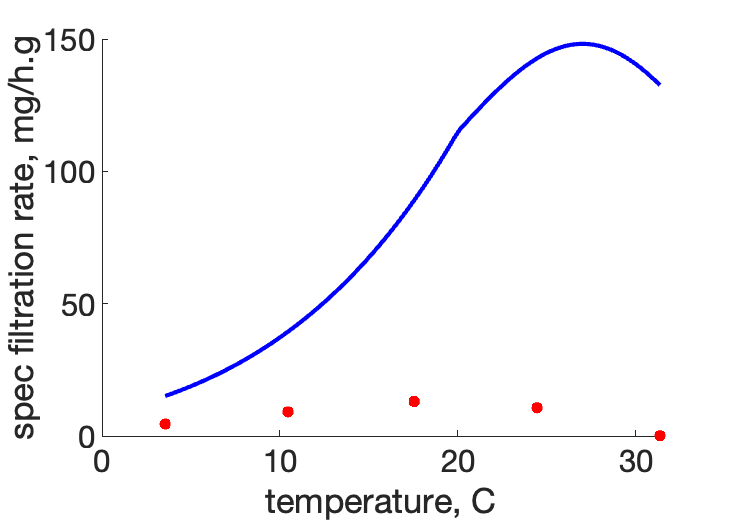
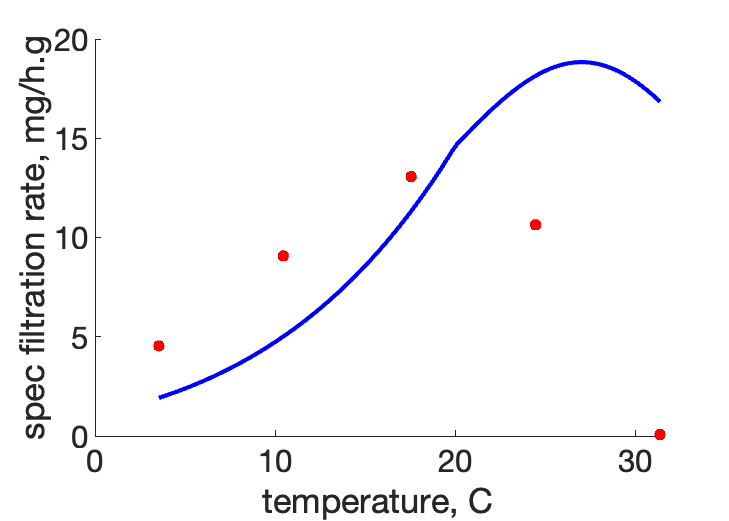
updated tspan

diff --git a/Dreissena_bugensis/Dreissena_bugensis_res.html b/Dreissena_bugensis/Dreissena_bugensis_res.html
@@ -1,0 +1,119 @@
+<!DOCTYPE html>
+<HTML>
+<HEAD>
+  <TITLE>Dreissena_bugensis</TITLE>
+  <style>
+    div.prd {
+      width: 50%;
+      float: left;
+    }
+
+    div.par {
+      width: 50%;
+      float: right;
+    }
+
+    p.clear {
+      clear: both;
+    }
+
+    .head {
+      background-color: #FFE7C6
+    }
+
+    .psd {
+      color: blue
+    }
+
+    #prd {
+      border-style: solid hidden solid hidden;
+    }
+
+    #par {
+      border-style: solid hidden solid hidden;
+    }
+
+    tr:nth-child(even){background-color: #f2f2f2}
+  </style>
+</HEAD>
+
+<BODY>
+
+  <div class="prd">
+  <h1>Dreissena bugensis</h1>
+  </div>
+
+  <div class="par">
+  <h4>COMPLETE = 2.0; MRE =    2.287; SMAE =    0.738; SMSE =    0.613 </h4>
+  </div>
+
+  <p class="clear"></p>
+
+  <div class="prd">
+  <h2>Data & predictions</h2>
+  <TABLE id="prd">
+    <TR  class="head"><TH>data</TH> <TH>prd</TH> <TH>RE</TH>  <TH>symbol</TH> <TH>units</TH> <TH>description</TH> </TR>
+    <TR><TD>  3</TD> <TD>3.163</TD> <TD>0.05445</TD> <TD>ab</TD> <TD>d</TD> <TD>age at birth</TD></TR>
+    <TR><TD> 15</TD> <TD>1.863</TD> <TD>0.8758</TD> <TD>tj</TD> <TD>d</TD> <TD>time since birth at end acceleration</TD></TR>
+    <TR><TD>180</TD> <TD>164.9</TD> <TD>0.08369</TD> <TD>tp</TD> <TD>d</TD> <TD>time since birth at puberty</TD></TR>
+    <TR><TD>1095</TD> <TD>1.523e+04</TD> <TD>12.91</TD> <TD>am</TD> <TD>d</TD> <TD>life span</TD></TR>
+    <TR><TD>0.01</TD> <TD>0.018</TD> <TD>0.7997</TD> <TD>Lb</TD> <TD>cm</TD> <TD>length at birth</TD></TR>
+    <TR><TD>0.03</TD> <TD>0.02805</TD> <TD>0.06513</TD> <TD>Lj</TD> <TD>cm</TD> <TD>length at end acceleration</TD></TR>
+    <TR><TD>0.7</TD> <TD>1.004</TD> <TD>0.4344</TD> <TD>Lp</TD> <TD>cm</TD> <TD>length at puberty</TD></TR>
+    <TR><TD>4.5</TD> <TD>4.916</TD> <TD>0.09253</TD> <TD>Li</TD> <TD>cm</TD> <TD>ultimate length</TD></TR>
+    <TR><TD>1.98e-08</TD> <TD>4.023e-08</TD> <TD>1.032</TD> <TD>Wdb</TD> <TD>g</TD> <TD>dry weight at birth</TD></TR>
+    <TR><TD>1.47e-07</TD> <TD>1.522e-07</TD> <TD>0.03559</TD> <TD>Wdj</TD> <TD>g</TD> <TD>dry weight at end acceleration</TD></TR>
+    <TR><TD>0.00063</TD> <TD>0.006986</TD> <TD>10.09</TD> <TD>Wdp</TD> <TD>g</TD> <TD>dry weight at puberty</TD></TR>
+    <TR><TD>0.168</TD> <TD>0.82</TD> <TD>3.881</TD> <TD>Wdi</TD> <TD>g</TD> <TD>ultimate dry weight</TD></TR>
+    <TR><TD>2740</TD> <TD>577.6</TD> <TD>0.7892</TD> <TD>Ri</TD> <TD>#/d</TD> <TD>ultimate reproduction rate</TD></TR>
+    <TR><TD colspan="2">see figure</TD> <TD>2.036</TD> <TD>tL1</TD> <TD colspan="2">time <font color="blue"><i>vs.</i></font> shell length</TD>
+    <TR><TD colspan="2">see figure</TD> <TD>1.465</TD> <TD>tL2</TD> <TD colspan="2">time <font color="blue"><i>vs.</i></font> shell length</TD>
+    <TR><TD colspan="2">see figure</TD> <TD>0.8742</TD> <TD>TF1</TD> <TD colspan="2">temperature <font color="blue"><i>vs.</i></font> spec filtration rate</TD>
+    <TR class="psd"><TD>0.02</TD> <TD>0.0161</TD> <TD>0.1951</TD> <TD>psd.v</TD> <TD>cm/d</TD> <TD>energy conductance</TD></TR>
+    <TR class="psd"><TD>0.8</TD> <TD>0.9927</TD> <TD>0.2409</TD> <TD>psd.kap</TD> <TD>-</TD> <TD>allocation fraction to soma</TD></TR>
+    <TR class="psd"><TD>0.95</TD> <TD>0.95</TD> <TD>  0</TD> <TD>psd.kap_R</TD> <TD>-</TD> <TD>reproduction efficiency</TD></TR>
+    <TR class="psd"><TD> 18</TD> <TD> 96</TD> <TD>4.333</TD> <TD>psd.p_M</TD> <TD>J/d.cm^3</TD> <TD>vol-spec som maint</TD></TR>
+    <TR class="psd"><TD>0.002</TD> <TD>0.002</TD> <TD>  0</TD> <TD>psd.k_J</TD> <TD>1/d</TD> <TD>maturity maint rate coefficient</TD></TR>
+    <TR class="psd"><TD>0.8</TD> <TD>0.8015</TD> <TD>0.001917</TD> <TD>psd.kap_G</TD> <TD>-</TD> <TD>growth efficiency</TD></TR>
+  </TABLE>
+  </div>
+
+  <div class="par">
+  <h2>abj parameters at 20.0&deg;C</h2>
+  <TABLE id="par">
+    <TR class="head"><TH>symbol</TH> <TH>units</TH> <TH>value</TH>  <TH>free</TH> <TH>description</TH> </TR>
+    <TR><TD>T_ref</TD> <TD>K</TD> <TD>293.1</TD> <TD>0</TD> <TD>Reference temperature</TD></TR>
+    <TR><TD>T_A</TD> <TD>K</TD> <TD>8000</TD> <TD>0</TD> <TD>T_A</TD></TR>
+    <TR><TD>z</TD> <TD>-</TD> <TD>0.8787</TD> <TD>1</TD> <TD>zoom factor</TD></TR>
+    <TR><TD>F_m</TD> <TD>l/d.cm^2</TD> <TD>48.23</TD> <TD>1</TD> <TD>{F_m}, max spec searching rate</TD></TR>
+    <TR><TD>kap_X</TD> <TD>-</TD> <TD>0.1</TD> <TD>0</TD> <TD>digestion efficiency of food to reserve</TD></TR>
+    <TR><TD>kap_P</TD> <TD>-</TD> <TD>0.5</TD> <TD>0</TD> <TD>faecation efficiency of food to faeces</TD></TR>
+    <TR><TD>v</TD> <TD>cm/d</TD> <TD>0.0161</TD> <TD>1</TD> <TD>energy conductance</TD></TR>
+    <TR><TD>kap</TD> <TD>-</TD> <TD>0.9927</TD> <TD>1</TD> <TD>allocation fraction to soma</TD></TR>
+    <TR><TD>kap_R</TD> <TD>-</TD> <TD>0.95</TD> <TD>0</TD> <TD>reproduction efficiency</TD></TR>
+    <TR><TD>p_M</TD> <TD>J/d.cm^3</TD> <TD> 96</TD> <TD>1</TD> <TD>[p_M], vol-spec somatic maint</TD></TR>
+    <TR><TD>p_T</TD> <TD>J/d.cm^2</TD> <TD>  0</TD> <TD>0</TD> <TD>{p_T}, surf-spec somatic maint</TD></TR>
+    <TR><TD>k_J</TD> <TD>1/d</TD> <TD>0.002</TD> <TD>0</TD> <TD>maturity maint rate coefficient</TD></TR>
+    <TR><TD>E_G</TD> <TD>J/cm^3</TD> <TD>2349</TD> <TD>1</TD> <TD>[E_G], spec cost for structure</TD></TR>
+    <TR><TD>E_Hb</TD> <TD>J</TD> <TD>2.203e-06</TD> <TD>1</TD> <TD>maturity at birth</TD></TR>
+    <TR><TD>E_Hj</TD> <TD>J</TD> <TD>8.376e-06</TD> <TD>1</TD> <TD>maturity at metamorphosis</TD></TR>
+    <TR><TD>E_Hp</TD> <TD>J</TD> <TD>0.5868</TD> <TD>1</TD> <TD>maturity at puberty</TD></TR>
+    <TR><TD>h_a</TD> <TD>1/d^2</TD> <TD>1.937e-09</TD> <TD>1</TD> <TD>Weibull aging acceleration</TD></TR>
+    <TR><TD>s_G</TD> <TD>-</TD> <TD>0.0001</TD> <TD>0</TD> <TD>Gompertz stress coefficient</TD></TR>
+    <TR><TD>T_L</TD> <TD>K</TD> <TD>273.1</TD> <TD>1</TD> <TD>T_L</TD></TR>
+    <TR><TD>T_AL</TD> <TD>K</TD> <TD>1e+04</TD> <TD>1</TD> <TD>T_AL</TD></TR>
+    <TR><TD>T_H</TD> <TD>K</TD> <TD>302</TD> <TD>0</TD> <TD>T_H</TD></TR>
+    <TR><TD>T_AH</TD> <TD>K</TD> <TD>2e+04</TD> <TD>1</TD> <TD>T_AH</TD></TR>
+    <TR><TD>del_M</TD> <TD>-</TD> <TD>0.2785</TD> <TD>1</TD> <TD>shape coefficient</TD></TR>
+    <TR><TD>f</TD> <TD>-</TD> <TD>  1</TD> <TD>0</TD> <TD>scaled functional response for 0-var data</TD></TR>
+    <TR><TD>t_0</TD> <TD>d</TD> <TD>  0</TD> <TD>0</TD> <TD>time at start of development</TD></TR>
+    <TR><TD>L_tL_high</TD> <TD>cm</TD> <TD>1.044</TD> <TD>0</TD> <TD>size at the start of the tL experiment</TD></TR>
+    <TR><TD>f_tL_high</TD> <TD>-</TD> <TD>0.4</TD> <TD>0</TD> <TD>scaled functional response for high food condition</TD></TR>
+    <TR><TD>L_tL_low</TD> <TD>cm</TD> <TD>1.051</TD> <TD>0</TD> <TD>size at the start of the tL experiment</TD></TR>
+    <TR><TD>f_tL_low</TD> <TD>-</TD> <TD>0.2</TD> <TD>0</TD> <TD>scaled functional response for tL low food condition</TD></TR>
+    <TR><TD>f_tF</TD> <TD>-</TD> <TD>0.5</TD> <TD>0</TD> <TD>scaled functional response for temp-filtrationRate data</TD></TR>
+  </TABLE>
+  </div>
+
+</BODY>
+</HTML>

diff --git a/Dreissena_bugensis/predict_Dreissena_bugensis.m b/Dreissena_bugensis/predict_Dreissena_bugensis.m
@@ -109,24 +109,26 @@ function [prdData, info] = predict_Dreissena_bugensis(par, data, auxData)
    
     % TC_TF2 = tempcorr(TF2(:,1), T_ref, pars_T); % temperature correction for temp-fr data (zebra acclimated to 8 dC)
     pars_abj = [p_Am, v, p_M, k_J, kap, kap_G, E_G, E_Hb, E_Hj, E_Hp]; 
-
-    E_initial = 0.005 .* E_m;
+    s_M = L_j/L_b;
     L_initial = L_tL_high .* del_M;
+    E_initial = f .* E_m .* L_initial .^3;
     E_H_initial = E_Hp; % 10 mm mussel already matures?
     R_initial = 0;
     ELHRi = [E_initial, L_initial, E_H_initial, R_initial];
     tf = [tT(1,1), f_tL_high];
-    [tELHR]  = get_tELHR(pars_abj, tTC, tf, ELHRi, L_b);
+    tspan = tL1(:,1);
+    [tELHR]  = get_tELHR(tspan, pars_abj, tTC, tf, ELHRi, L_b, s_M);
     L = tELHR(:, 3);
     ELw1 = L ./del_M;
 
-    E_initial = 0.005 .* E_m;
     L_initial = L_tL_low .* del_M;
+    E_initial = f .* E_m .* L_initial .^3;
     E_H_initial = E_Hp; % 10 mm mussel already matures?
     R_initial = 0;
     ELHRi = [E_initial, L_initial, E_H_initial, R_initial];
     tf = [tT(1,1), f_tL_low];
-    [tELHR]  = get_tELHR(pars_abj, tTC, tf, ELHRi, L_b);
+    tspan = tL2(:,1);
+    [tELHR]  = get_tELHR(tspan, pars_abj, tTC, tf, ELHRi, L_b, s_M);
     L = tELHR(:, 3);
     ELw2 = L ./del_M;
     
@@ -179,24 +181,24 @@ end
 % 
 % end
 
-function [tELHR]  = get_tELHR(pars_abj, tTC, tf, ELHRi, Lb)
+function [tELHR]  = get_tELHR(tspan, pars_abj, tTC, tf, ELHRi, Lb, s_M)
     % modified from get_indDyn_mod
     % Edited 2023/06/12 by Tongyao
     
-    tspan = tTC(:,1); % set simulation time
+    % tspan = tTC(:,1); % set simulation time
     % options = odeset('Events',@stage_events_abj, 'AbsTol',1e-9, 'RelTol',1e-9);
     if size(tf, 1) == 1
-        tf = [tTC(1,1) tf(1,2); tTC(end,1) tf(1,2)];
+        tf = [tspan(1) tf(1,2); tspan(end) tf(1,2)];
     end
     options = [];
     % % 3nd call from metamorphosis to the end of simulation
     % L_b = NaN;        
-    s_M = NaN;  
+    % s_M = NaN;  
     isterminal =[0,0,0];
     [t, ELHR] = ode45(@dget_ELHR_abj, tspan, ELHRi, options, pars_abj, tTC, tf, Lb, s_M, isterminal);
     % [t, ELHR] = ode45(@dget_ELHR_abj, tspan, ELHRi, options, pars_abj, tTC, tf, Lb, s_M, isterminal);
     % pack output
-    ELHR = [t, ELHR];
+    tELHR = [t, ELHR];
 end
 
 function dELHR = dget_ELHR_abj(t, ELHR, p, tTC, tf, Lb, s_M, isterminal)
